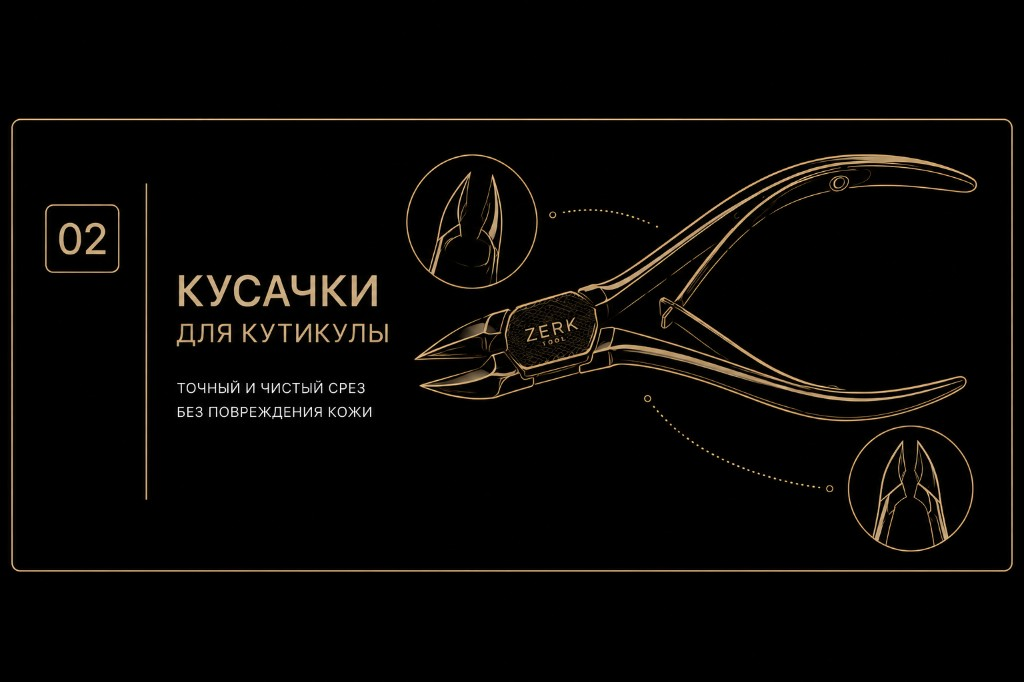
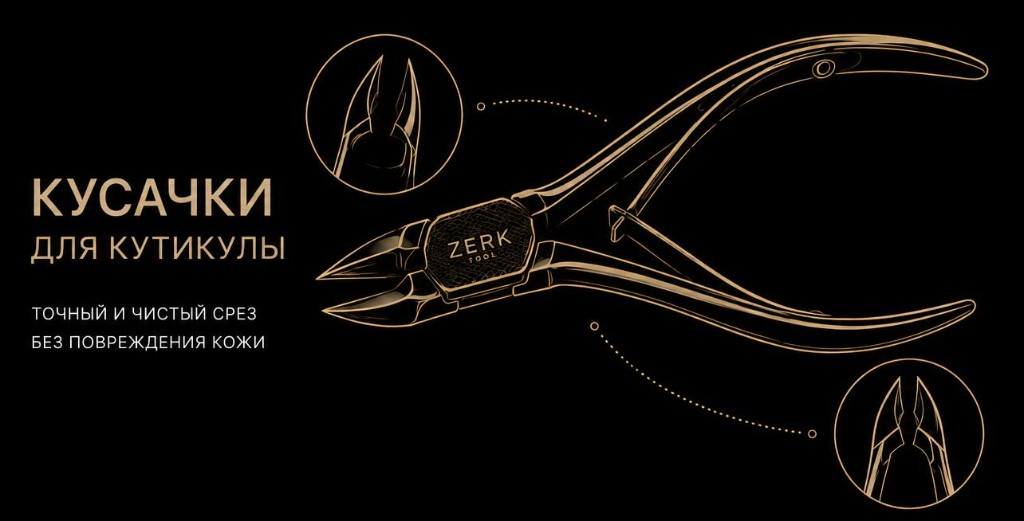
update design

diff --git a/articles/yaponskaya-stal-dlya-manikyura/index.html b/articles/yaponskaya-stal-dlya-manikyura/index.html
@@ -13,13 +13,13 @@
   <meta property="og:title" content="Японская сталь в маникюрных кусачках — почему её выбирают профи">
   <meta property="og:description" content="Почему мастера выбирают кусачки из японской стали SUS 420 J2: заточка, износ, стерилизация. IL-03-5 и IAL-01-8 ZERK TOOL.">
   <meta property="og:url" content="https://zerk-tool.ru/articles/yaponskaya-stal-dlya-manikyura">
-  <meta property="og:image" content="https://zerk-tool.ru/images/ial-01.jpg">
+  <meta property="og:image" content="https://zerk-tool.ru/images/articles-nippers-guide.png">
   <meta property="og:site_name" content="ZERK TOOL">
   <meta property="og:locale" content="ru_RU">
   <meta name="twitter:card" content="summary_large_image">
   <meta name="twitter:title" content="Японская сталь в маникюрных кусачках — почему её выбирают профи">
   <meta name="twitter:description" content="Почему мастера выбирают кусачки из японской стали SUS 420 J2: заточка, износ, стерилизация. IL-03-5 и IAL-01-8 ZERK TOOL.">
-  <meta name="twitter:image" content="https://zerk-tool.ru/images/ial-01.jpg">
+  <meta name="twitter:image" content="https://zerk-tool.ru/images/articles-nippers-guide.png">
   <link rel="stylesheet" href="/assets/zerk.css">
   <link rel="stylesheet" href="/assets/zerk-mobile.css">
   <link rel="stylesheet" href="/assets/zerk-cart.css">
@@ -44,7 +44,7 @@
     <article class="article-header">
       <h1>Японская сталь в маникюрных кусачках: что даёт мастеру</h1>
       <p class="article-meta"><time datetime="2026-05-22">Опубликовано: 2026-05-22</time> · ZERK TOOL</p>
-      <img class="article-cover" src="/images/ial-01.jpg" width="1200" height="630" alt="Кусачки из японской стали ZERK TOOL" loading="eager" decoding="async">
+      <img class="article-cover" src="/images/articles-nippers-guide.png" width="1200" height="630" alt="Кусачки для кутикулы ZERK TOOL — точный и чистый срез" loading="eager" decoding="async">
     </article>
     <div class="article-body">
       <p class="article-lead">Маркировка <strong>японская сталь</strong> SUS 420 J2 на <a href="/nippers">маникюрных кусачках</a> — не декор. От сплава зависят заточка, стерилизация инструмента и срок службы в <a href="/collection">профессиональном маникюре</a>. Сравниваем <a href="/nippers/il-03/5-mm">IL-03-5</a> и <a href="/nippers/ial-01/8-mm">IAL-01-8</a>.</p>
@@ -169,7 +169,7 @@
   <script src="/assets/zerk.js" defer></script>
   <script src="/assets/zerk-shell.js" defer></script>
   <script src="/assets/zerk-cart.js" defer></script>
-  <script type="application/ld+json">{"@context":"https://schema.org","@type":"Article","headline":"Японская сталь в маникюрных кусачках: что даёт мастеру","description":"Почему мастера выбирают кусачки из японской стали SUS 420 J2: заточка, износ, стерилизация. IL-03-5 и IAL-01-8 ZERK TOOL.","image":"https://zerk-tool.ru/images/ial-01.jpg","datePublished":"2026-05-22","dateModified":"2026-05-22","author":{"@type":"Organization","name":"ZERK TOOL","url":"https://zerk-tool.ru"},"publisher":{"@type":"Organization","name":"ZERK TOOL","logo":{"@type":"ImageObject","url":"https://zerk-tool.ru/images/logo.png"}},"mainEntityOfPage":{"@type":"WebPage","@id":"https://zerk-tool.ru/articles/yaponskaya-stal-dlya-manikyura"}}</script>
+  <script type="application/ld+json">{"@context":"https://schema.org","@type":"Article","headline":"Японская сталь в маникюрных кусачках: что даёт мастеру","description":"Почему мастера выбирают кусачки из японской стали SUS 420 J2: заточка, износ, стерилизация. IL-03-5 и IAL-01-8 ZERK TOOL.","image":"https://zerk-tool.ru/images/articles-nippers-guide.png","datePublished":"2026-05-22","dateModified":"2026-05-22","author":{"@type":"Organization","name":"ZERK TOOL","url":"https://zerk-tool.ru"},"publisher":{"@type":"Organization","name":"ZERK TOOL","logo":{"@type":"ImageObject","url":"https://zerk-tool.ru/images/logo.png"}},"mainEntityOfPage":{"@type":"WebPage","@id":"https://zerk-tool.ru/articles/yaponskaya-stal-dlya-manikyura"}}</script>
   <script type="application/ld+json">{"@context":"https://schema.org","@type":"BreadcrumbList","itemListElement":[{"@type":"ListItem","position":1,"name":"Главная","item":"https://zerk-tool.ru/"},{"@type":"ListItem","position":2,"name":"Статьи","item":"https://zerk-tool.ru/articles"},{"@type":"ListItem","position":3,"name":"Японская сталь в маникюрных кусачках: что даёт мастеру","item":"https://zerk-tool.ru/articles/yaponskaya-stal-dlya-manikyura"}]}</script>
   <script type="application/ld+json">{"@context":"https://schema.org","@type":"FAQPage","mainEntity":[{"@type":"Question","name":"Японская сталь — значит сделано в Японии?","acceptedAnswer":{"@type":"Answer","text":"SUS 420 J2 — марка сплава. Производство ZERK TOOL контролируется во Вьетнаме с заданным составом. На кромке важнее ход и заточка, чем страна на гравировке."}},{"@type":"Question","name":"Нужна ли особая стерилизация?","acceptedAnswer":{"@type":"Answer","text":"Стандартный протокол для нержавеющего маникюрного инструмента с просушкой."}},{"@type":"Question","name":"IL-03 или IAL-01 по стали?","acceptedAnswer":{"@type":"Answer","text":"Сплав сопоставим; выбор по размеру лезвия и кутикуле."}},{"@type":"Question","name":"Как проверить сталь в магазине?","acceptedAnswer":{"@type":"Answer","text":"Смыкание, ход, отсутствие люфта и ровная кромка важнее надписи на ручке."}},{"@type":"Question","name":"Сколько служит пара?","acceptedAnswer":{"@type":"Answer","text":"При ежедневной работе и заточке — месяцы и годы; зависит от нагрузки и ухода."}}]}</script>
   <script type="application/ld+json" id="zerk-schema-org-static">{"@context":"https://schema.org","@type":"Organization","name":"ZERK TOOL","alternateName":["ZERK","ZERK TOOL"],"url":"https://zerk-tool.ru","logo":"https://zerk-tool.ru/images/logo.png","image":"https://zerk-tool.ru/images/logo.png","telephone":"[phone redacted]","description":"Профессиональный маникюрный инструмент ZERK TOOL: кусачки, ножницы, пилки-файлы.","address":{"@type":"PostalAddress","addressCountry":"RU","addressLocality":"Penza, Suvorova 92"},"sameAs":["https://t.me/Mr_Anderson_pnz","https://wa.me/[phone redacted]"]}</script>

diff --git a/articles/index.html b/articles/index.html
@@ -98,7 +98,7 @@
       </div>
     </article>
     <article class="article-card">
-      <a href="/articles/yaponskaya-stal-dlya-manikyura"><img class="article-card__img" src="/images/ial-01.jpg" alt="" width="400" height="250" loading="lazy" decoding="async"></a>
+      <a href="/articles/yaponskaya-stal-dlya-manikyura"><img class="article-card__img" src="/images/articles-nippers-guide.png" alt="" width="400" height="250" loading="lazy" decoding="async"></a>
       <div class="article-card__body">
         <h2 class="article-card__title"><a href="/articles/yaponskaya-stal-dlya-manikyura">Японская сталь в маникюрных кусачках: что даёт мастеру</a></h2>
         <p class="article-card__excerpt">Материал режущей кромки определяет срок службы и предсказуемость среза. Разбираем преимущества японской стали.</p>
@@ -138,7 +138,7 @@
   <script type="application/ld+json">{"@context":"https://schema.org","@type":"Article","headline":"100, 180 и 240 grit: как выбрать абразив мастеру","description":"Чем отличаются 100 grit, 180 grit и 240 grit в сменных файлах и пилках для ногтей. Подбор абразива ZERK TOOL для профессионального маникюра.","image":"https://zerk-tool.ru/images/nippers-main.jpg","datePublished":"2026-05-19","dateModified":"2026-05-19","author":{"@type":"Organization","name":"ZERK TOOL","url":"https://zerk-tool.ru"},"publisher":{"@type":"Organization","name":"ZERK TOOL","logo":{"@type":"ImageObject","url":"https://zerk-tool.ru/images/logo.png"}},"mainEntityOfPage":{"@type":"WebPage","@id":"https://zerk-tool.ru/articles/100-180-240-grit"}}</script>
   <script type="application/ld+json">{"@context":"https://schema.org","@type":"Article","headline":"Ножницы или кусачки для кутикулы: сравнение для салона","description":"Маникюрные ножницы или кусачки для кутикулы: сравнение техник, Solingen и японская сталь. Инструмент ZERK TOOL для профессионального маникюра.","image":"https://zerk-tool.ru/images/scissors-solingen.jpg","datePublished":"2026-05-20","dateModified":"2026-05-20","author":{"@type":"Organization","name":"ZERK TOOL","url":"https://zerk-tool.ru"},"publisher":{"@type":"Organization","name":"ZERK TOOL","logo":{"@type":"ImageObject","url":"https://zerk-tool.ru/images/logo.png"}},"mainEntityOfPage":{"@type":"WebPage","@id":"https://zerk-tool.ru/articles/nozhnicy-ili-kusachki"}}</script>
   <script type="application/ld+json">{"@context":"https://schema.org","@type":"Article","headline":"Стерилизация маникюрного инструмента: пошаговый протокол","description":"Как стерилизовать маникюрный инструмент: дезинфекция, сухожар, ультразвук. Кусачки, ножницы и протокол ZERK TOOL для салона.","image":"https://zerk-tool.ru/images/il-09.jpg","datePublished":"2026-05-21","dateModified":"2026-05-21","author":{"@type":"Organization","name":"ZERK TOOL","url":"https://zerk-tool.ru"},"publisher":{"@type":"Organization","name":"ZERK TOOL","logo":{"@type":"ImageObject","url":"https://zerk-tool.ru/images/logo.png"}},"mainEntityOfPage":{"@type":"WebPage","@id":"https://zerk-tool.ru/articles/sterilizaciya-manikyurnogo-instrumenta"}}</script>
-  <script type="application/ld+json">{"@context":"https://schema.org","@type":"Article","headline":"Японская сталь в маникюрных кусачках: что даёт мастеру","description":"Почему мастера выбирают кусачки из японской стали SUS 420 J2: заточка, износ, стерилизация. IL-03-5 и IAL-01-8 ZERK TOOL.","image":"https://zerk-tool.ru/images/ial-01.jpg","datePublished":"2026-05-22","dateModified":"2026-05-22","author":{"@type":"Organization","name":"ZERK TOOL","url":"https://zerk-tool.ru"},"publisher":{"@type":"Organization","name":"ZERK TOOL","logo":{"@type":"ImageObject","url":"https://zerk-tool.ru/images/logo.png"}},"mainEntityOfPage":{"@type":"WebPage","@id":"https://zerk-tool.ru/articles/yaponskaya-stal-dlya-manikyura"}}</script>
+  <script type="application/ld+json">{"@context":"https://schema.org","@type":"Article","headline":"Японская сталь в маникюрных кусачках: что даёт мастеру","description":"Почему мастера выбирают кусачки из японской стали SUS 420 J2: заточка, износ, стерилизация. IL-03-5 и IAL-01-8 ZERK TOOL.","image":"https://zerk-tool.ru/images/articles-nippers-guide.png","datePublished":"2026-05-22","dateModified":"2026-05-22","author":{"@type":"Organization","name":"ZERK TOOL","url":"https://zerk-tool.ru"},"publisher":{"@type":"Organization","name":"ZERK TOOL","logo":{"@type":"ImageObject","url":"https://zerk-tool.ru/images/logo.png"}},"mainEntityOfPage":{"@type":"WebPage","@id":"https://zerk-tool.ru/articles/yaponskaya-stal-dlya-manikyura"}}</script>
   <script type="application/ld+json">{"@context":"https://schema.org","@type":"Article","headline":"Пилки для натуральных ногтей: грит, форма, техника","description":"Какие пилки для ногтей подходят для натуральной пластины: 180 и 240 grit, сменные файлы ZERK TOOL.","image":"https://zerk-tool.ru/images/nippers-main.jpg","datePublished":"2026-05-23","dateModified":"2026-05-23","author":{"@type":"Organization","name":"ZERK TOOL","url":"https://zerk-tool.ru"},"publisher":{"@type":"Organization","name":"ZERK TOOL","logo":{"@type":"ImageObject","url":"https://zerk-tool.ru/images/logo.png"}},"mainEntityOfPage":{"@type":"WebPage","@id":"https://zerk-tool.ru/articles/pilki-dlya-naturalnyh-nogtey"}}</script>
   <script type="application/ld+json">{"@context":"https://schema.org","@type":"Article","headline":"Срок службы маникюрного инструмента: уход и хранение","description":"Уход, заточка и хранение: как продлить жизнь кусачек, ножниц и пилок. Маникюрный инструмент ZERK TOOL для профессионального маникюра.","image":"https://zerk-tool.ru/images/il-12.jpg","datePublished":"2026-05-24","dateModified":"2026-05-24","author":{"@type":"Organization","name":"ZERK TOOL","url":"https://zerk-tool.ru"},"publisher":{"@type":"Organization","name":"ZERK TOOL","logo":{"@type":"ImageObject","url":"https://zerk-tool.ru/images/logo.png"}},"mainEntityOfPage":{"@type":"WebPage","@id":"https://zerk-tool.ru/articles/srok-sluzhby-manikyurnogo-instrumenta"}}</script>
   <script type="application/ld+json" id="zerk-schema-org-static">{"@context":"https://schema.org","@type":"Organization","name":"ZERK TOOL","alternateName":["ZERK","ZERK TOOL"],"url":"https://zerk-tool.ru","logo":"https://zerk-tool.ru/images/logo.png","image":"https://zerk-tool.ru/images/logo.png","telephone":"[phone redacted]","description":"Профессиональный маникюрный инструмент ZERK TOOL: кусачки, ножницы, пилки-файлы.","address":{"@type":"PostalAddress","addressCountry":"RU","addressLocality":"Penza, Suvorova 92"},"sameAs":["https://t.me/Mr_Anderson_pnz","https://wa.me/[phone redacted]"]}</script>

diff --git a/assets/articles-data.js b/assets/articles-data.js
@@ -83,7 +83,7 @@
       title: 'Японская сталь в маникюрных кусачках — почему её выбирают профи',
       description:
         'Почему профессионалы выбирают кусачки из японской стали SUS 420 J2: заточка, износ, стерилизация. ZERK TOOL IL.',
-      image: '/images/ial-01.jpg',
+      image: '/images/articles-nippers-guide.png',
       excerpt:
         'Материал режущей кромки определяет срок службы и предсказуемость среза. Разбираем преимущества японской стали.',
       datePublished: '2026-05-22',